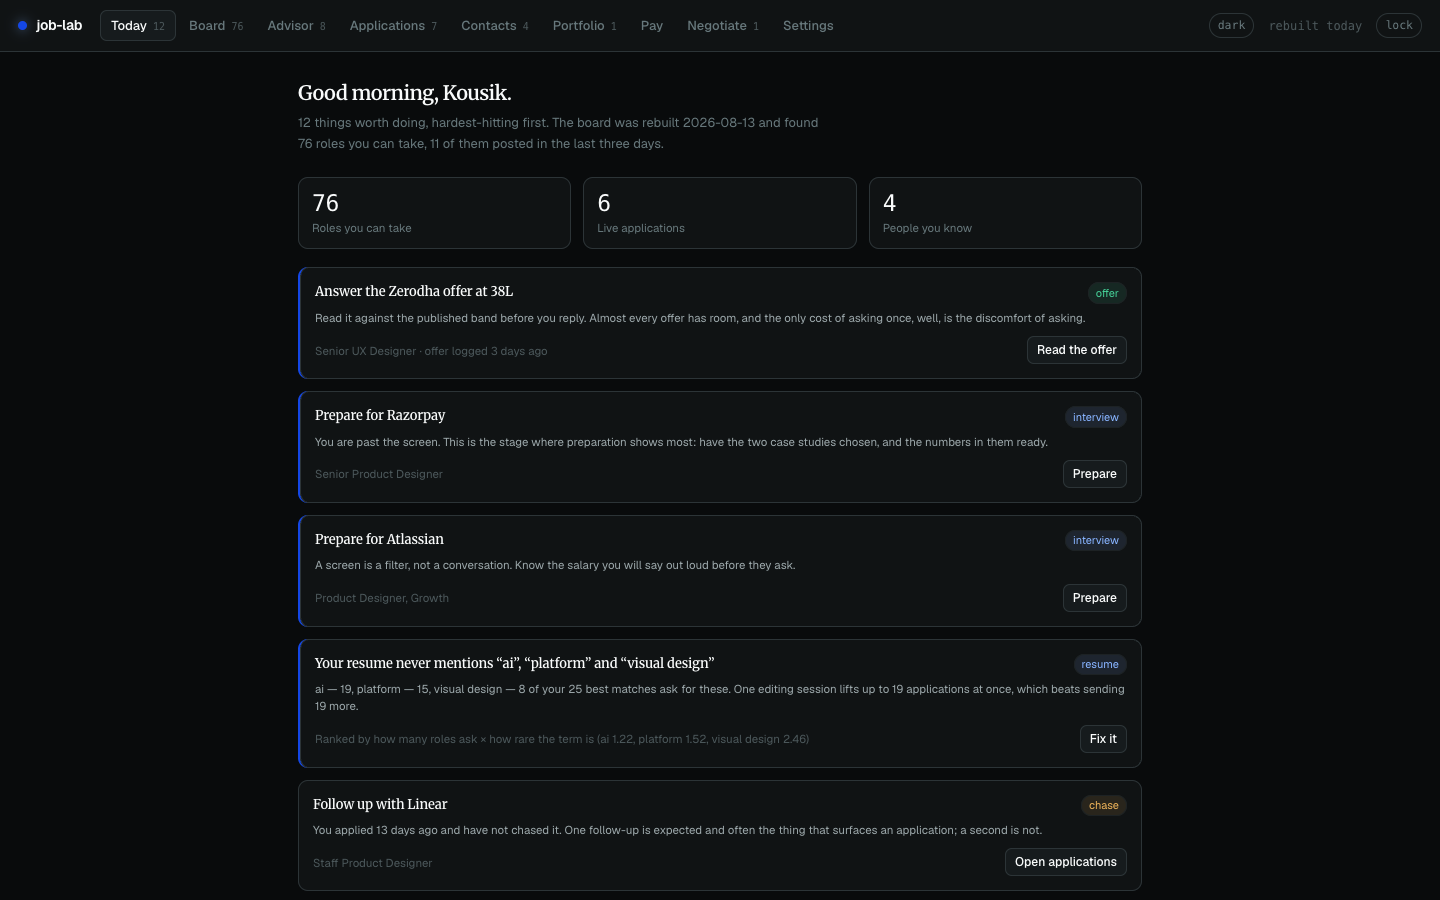
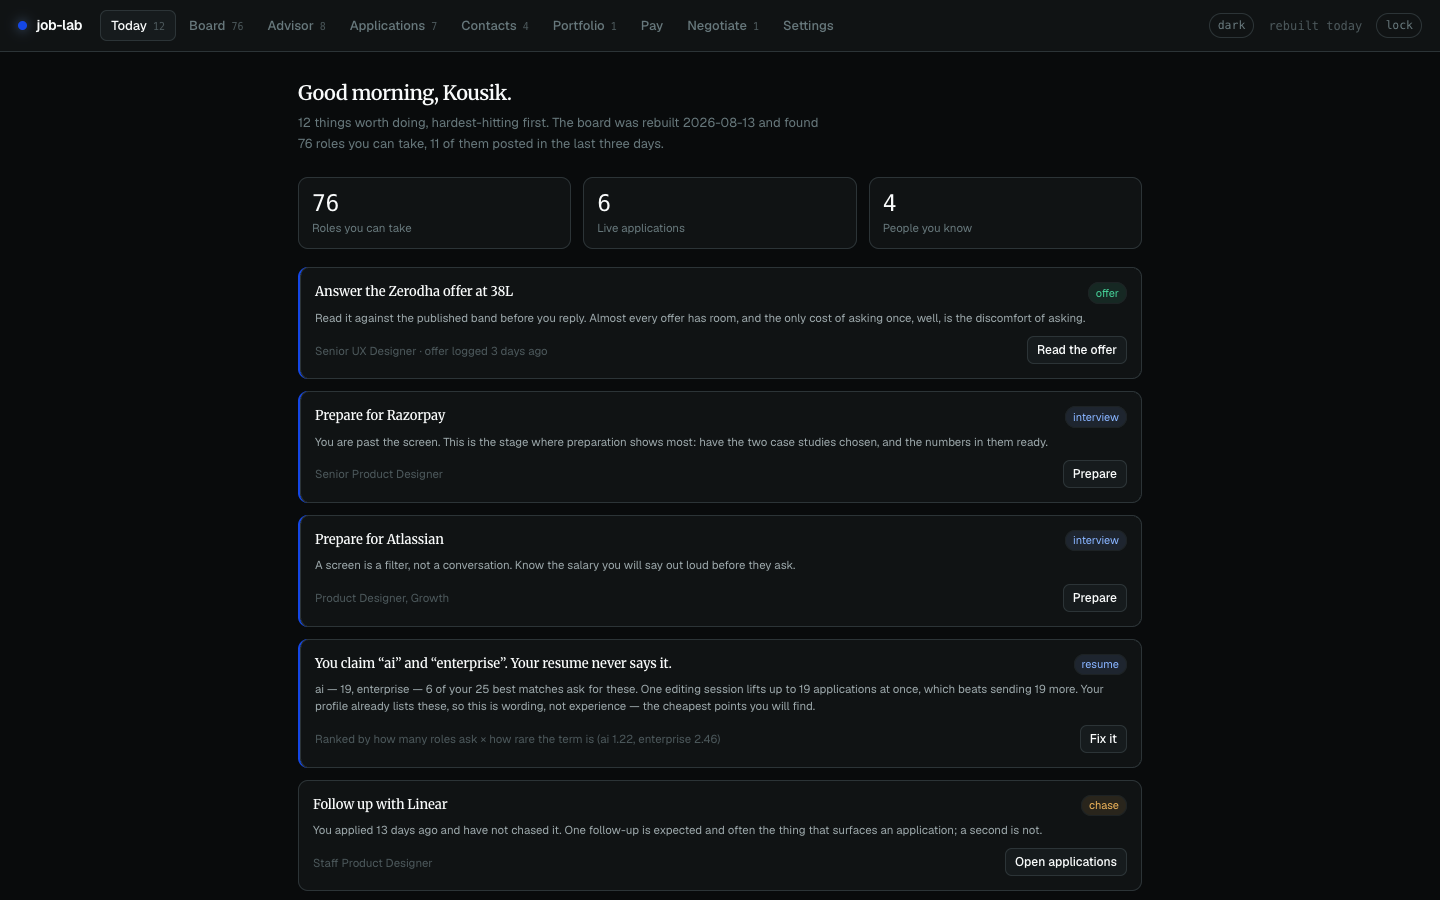
Separate gaps in your writing from gaps in your experience
The job page scored 91 with the reason "Overlaps your strengths: ai,
enterprise, interaction design" and, on the next tab, listed enterprise
under "Missing, most damaging first". Both statements were true of
different documents: the board scores against profile.json, the ATS
panel against the resume held in this browser. On one screen it read as
the tool arguing with itself.

The reconciliation is also the more useful feature. A term the posting
wants, that your profile claims, and that your resume never says, is not
a hole in your experience - it is a sentence you already earned and
forgot to write down, and it is the cheapest scoring edit available.
Those now surface first, in their own card, labelled as such; the
remaining list is renamed "Genuinely missing" so the distinction is
legible. Today's resume card applies the same ordering, since one
editing session that lifts twenty applications beats a rarer term you
would have to go and earn.

matchResume takes strengths as an optional argument and the score is
unchanged by it, asserted directly - a split that moved the number would
have traded one contradiction for another.

11 assertions in web/test/resume_claimed.test.mjs, negative control
fails 6 of 11. Three more in the seeded run assert the invariant against
the live corpus: nothing cited as a strength appears as a plain gap.

Changed region(s): [[0.2188, 0.7156, 0.7812, 0.84]]

diff --git a/web/src/components/JobDetail.tsx b/web/src/components/JobDetail.tsx
@@ -1,5 +1,13 @@
 import { useMemo, useState } from "react"
-import type { Application, CompanyDossier, CompanyInfo, Contact, Job, Settings } from "@/lib/types"
+import type {
+  Application,
+  CompanyDossier,
+  CompanyInfo,
+  Contact,
+  Job,
+  Profile,
+  Settings,
+} from "@/lib/types"
 import { copy, logoFor, money, scoreClass } from "@/lib/format"
 import { drafts, mailto, renderPattern } from "@/lib/email"
 import { matchResume } from "@/lib/resume"
@@ -9,6 +17,7 @@ import { vet, ageTone, postedLabel } from "@/lib/vetting"
 interface Props {
   job: Job
   company?: CompanyInfo
+  profile: Profile
   dossier?: CompanyDossier
   settings: Settings
   idf: Record<string, number>
@@ -27,6 +36,7 @@ export function JobDetail({
   job,
   company,
   dossier,
+  profile,
   settings,
   idf,
   application,
@@ -46,7 +56,10 @@ export function JobDetail({
   const vetting = useMemo(() => vet(job, dossier), [job, dossier])
 
   const match = useMemo(
-    () => (settings.resume_text ? matchResume(settings.resume_text, job, idf) : null),
+    () =>
+      settings.resume_text
+        ? matchResume(settings.resume_text, job, idf, profile.strengths ?? [])
+        : null,
     [settings.resume_text, job, idf],
   )
 
@@ -309,23 +322,52 @@ export function JobDetail({
                     </p>
                   </div>
 
-                  {match.missing.length > 0 && (
+                  {match.unwritten.length > 0 && (
                     <div className="card">
-                      <h3>Missing, most damaging first</h3>
+                      <h3>You can do these. Your resume never says so.</h3>
+                      <p className="tiny dimmer" style={{ marginTop: -4 }}>
+                        This posting asks for {match.unwritten.length === 1 ? "this" : "these"}, your
+                        profile says you have {match.unwritten.length === 1 ? "it" : "them"}, and the
+                        words are not in the file an ATS will read. Cheapest points on this page —
+                        no new experience needed, only the sentence you already earned.
+                      </p>
+                      <div className="wrap">
+                        {match.unwritten.map((gap) => (
+                          <span
+                            key={gap.term}
+                            className="pill pill-good"
+                            title={`In your profile, absent from your resume · ${gap.group}`}
+                          >
+                            {gap.term}
+                          </span>
+                        ))}
+                      </div>
+                    </div>
+                  )}
+
+                  {match.missing.length > match.unwritten.length && (
+                    <div className="card">
+                      <h3>
+                        {match.unwritten.length > 0 ? "Genuinely missing" : "Missing"}, most damaging
+                        first
+                      </h3>
                       <p className="tiny dimmer" style={{ marginTop: -4 }}>
                         Ranked by how rare each term is across all {Object.keys(idf).length} terms
                         on the board. A rare term is a real requirement; a common one is filler.
                       </p>
                       <div className="wrap">
-                        {match.missing.slice(0, 18).map((gap) => (
-                          <span
-                            key={gap.term}
-                            className={`pill ${gap.idf > 2.4 ? "pill-bad" : gap.idf > 1.8 ? "pill-warn" : ""}`}
-                            title={`Rarity ${gap.idf.toFixed(2)} · ${gap.group}`}
-                          >
-                            {gap.term}
-                          </span>
-                        ))}
+                        {match.missing
+                          .filter((gap) => !gap.claimed)
+                          .slice(0, 18)
+                          .map((gap) => (
+                            <span
+                              key={gap.term}
+                              className={`pill ${gap.idf > 2.4 ? "pill-bad" : gap.idf > 1.8 ? "pill-warn" : ""}`}
+                              title={`Rarity ${gap.idf.toFixed(2)} · ${gap.group}`}
+                            >
+                              {gap.term}
+                            </span>
+                          ))}
                       </div>
                     </div>
                   )}

diff --git a/web/src/lib/briefing.ts b/web/src/lib/briefing.ts
@@ -318,6 +318,7 @@ function resumeLeverage(
   jobs: Job[],
   settings: Settings,
   idf: Record<string, number>,
+  strengths: string[] = [],
 ): Action[] {
   if (!settings.resume_text) {
     return [
@@ -336,21 +337,30 @@ function resumeLeverage(
   const top = jobs.filter((j) => j.eligible).slice(0, 25)
   if (top.length < 4) return []
 
-  const missingCounts = new Map<string, { jobs: number; idf: number }>()
+  const missingCounts = new Map<string, { jobs: number; idf: number; claimed: boolean }>()
   for (const job of top) {
-    const result = matchResume(settings.resume_text, job, idf)
+    const result = matchResume(settings.resume_text, job, idf, strengths)
     for (const gap of result.missing.slice(0, 12)) {
-      const current = missingCounts.get(gap.term) ?? { jobs: 0, idf: gap.idf }
+      const current = missingCounts.get(gap.term) ?? {
+        jobs: 0,
+        idf: gap.idf,
+        claimed: !!gap.claimed,
+      }
       current.jobs += 1
       missingCounts.set(gap.term, current)
     }
   }
 
-  const ranked = Array.from(missingCounts.entries())
+  const scored = Array.from(missingCounts.entries())
     .map(([term, stats]) => ({ term, ...stats, leverage: stats.jobs * stats.idf }))
-    .sort((a, b) => b.leverage - a.leverage)
-    .slice(0, 3)
     .filter((row) => row.jobs >= Math.max(3, Math.round(top.length * 0.25)))
+    .sort((a, b) => b.leverage - a.leverage)
+
+  // A term you already claim needs a sentence, not a career move. Those come
+  // first however rare the alternative is, because they are the only edits on
+  // this page that cost nothing but typing.
+  const free = scored.filter((r) => r.claimed)
+  const ranked = (free.length > 0 ? free : scored).slice(0, 3)
 
   if (ranked.length === 0) return []
 
@@ -368,13 +378,16 @@ function resumeLeverage(
       id: `resume-${ranked.map((r) => r.term).join("-")}`,
       kind: "resume" as const,
       urgency: 85,
-      title:
-        ranked.length === 1
-          ? `Your resume never mentions ${phrase}`
-          : `Your resume never mentions ${phrase}`,
+      title: free.length
+        ? `You claim ${phrase}. Your resume never says it.`
+        : `Your resume never mentions ${phrase}`,
       detail: `${ranked
         .map((r) => `${r.term} — ${r.jobs}`)
-        .join(", ")} of your ${top.length} best matches ask for these. One editing session lifts up to ${reach} applications at once, which beats sending ${reach} more.`,
+        .join(", ")} of your ${top.length} best matches ask for these. One editing session lifts up to ${reach} applications at once, which beats sending ${reach} more.${
+        free.length
+          ? " Your profile already lists these, so this is wording, not experience — the cheapest points you will find."
+          : ""
+      }`,
       evidence: `Ranked by how many roles ask × how rare the term is (${ranked
         .map((r) => `${r.term} ${r.idf.toFixed(2)}`)
         .join(", ")})`,
@@ -445,6 +458,7 @@ export function briefing(
   settings: Settings,
   idf: Record<string, number>,
   projects: Project[] = [],
+  strengths: string[] = [],
 ): Action[] {
   const actions = [
     ...liveOffers(applications),
@@ -452,7 +466,7 @@ export function briefing(
     ...interviewing(applications),
     ...profileGaps(settings),
     ...followUps(applications),
-    ...resumeLeverage(jobs, settings, idf),
+    ...resumeLeverage(jobs, settings, idf, strengths),
     ...expiring(jobs, applications),
     ...worthApplying(jobs, applications),
     ...networkGaps(applications, contacts),

diff --git a/web/src/lib/resume.ts b/web/src/lib/resume.ts
@@ -25,6 +25,8 @@ export interface Gap {
   group: string
   idf: number
   weight: number
+  /** True when your profile claims this term, so the gap is wording, not skill. */
+  claimed?: boolean
 }
 
 export interface FormatIssue {
@@ -41,6 +43,8 @@ export interface MatchResult {
   formatScore: number
   covered: Gap[]
   missing: Gap[]
+  /** Wanted, claimed in your profile, absent from the resume. Free to fix. */
+  unwritten: Gap[]
   coverage: number
   weightedCoverage: number
   issues: FormatIssue[]
@@ -151,9 +155,23 @@ export function formatIssues(resume: string): FormatIssue[] {
   return issues
 }
 
-export function matchResume(resume: string, job: Job, idf: Record<string, number>): MatchResult {
+export function matchResume(
+  resume: string,
+  job: Job,
+  idf: Record<string, number>,
+  /**
+   * What the profile says you can do. A term the posting wants, that you claim,
+   * and that your resume never says, is not a gap in your experience — it is a
+   * gap in your writing, and it is the cheapest thing on this page to fix. The
+   * board scores against these; the ATS only ever sees the resume. Without this
+   * split the same screen said "overlaps your strengths: enterprise" and listed
+   * enterprise under what you are missing.
+   */
+  strengths: string[] = [],
+): MatchResult {
   const body = normalise(resume)
   const terms = Array.from(new Set(job.keywords))
+  const claimed = new Set(strengths.map((s) => s.toLowerCase().trim()).filter(Boolean))
 
   const covered: Gap[] = []
   const missing: Gap[] = []
@@ -166,12 +184,14 @@ export function matchResume(resume: string, job: Job, idf: Record<string, number
         Object.entries(job.keyword_groups).find(([, list]) => list.includes(term))?.[0] ?? "other",
       idf: weight,
       weight,
+      claimed: claimed.has(term.toLowerCase()),
     }
     if (hasTerm(body, term)) covered.push(entry)
     else missing.push(entry)
   }
 
   missing.sort((a, b) => b.weight - a.weight)
+  const unwritten = missing.filter((g) => g.claimed)
   covered.sort((a, b) => b.weight - a.weight)
 
   const totalWeight = terms.reduce((sum, t) => sum + (idf[t] ?? 1), 0)
@@ -247,6 +267,7 @@ export function matchResume(resume: string, job: Job, idf: Record<string, number
     formatScore,
     covered,
     missing,
+    unwritten,
     coverage,
     weightedCoverage,
     issues,

diff --git a/web/src/App.tsx b/web/src/App.tsx
@@ -163,6 +163,7 @@ export default function App() {
             settings,
             bundle.idf,
             projects,
+            bundle.profile.strengths ?? [],
           ).filter((a) => a.kind !== "nothing")
         : [],
     [bundle, applications, contacts, settings, projects],
@@ -382,6 +383,7 @@ export default function App() {
               <JobDetail
                 job={selected}
                 company={bundle.data.companies[selected.company]}
+                profile={bundle.profile}
                 dossier={bundle.dossiers[slugFor(selected.company)]}
                 settings={settings}
                 idf={bundle.idf}
